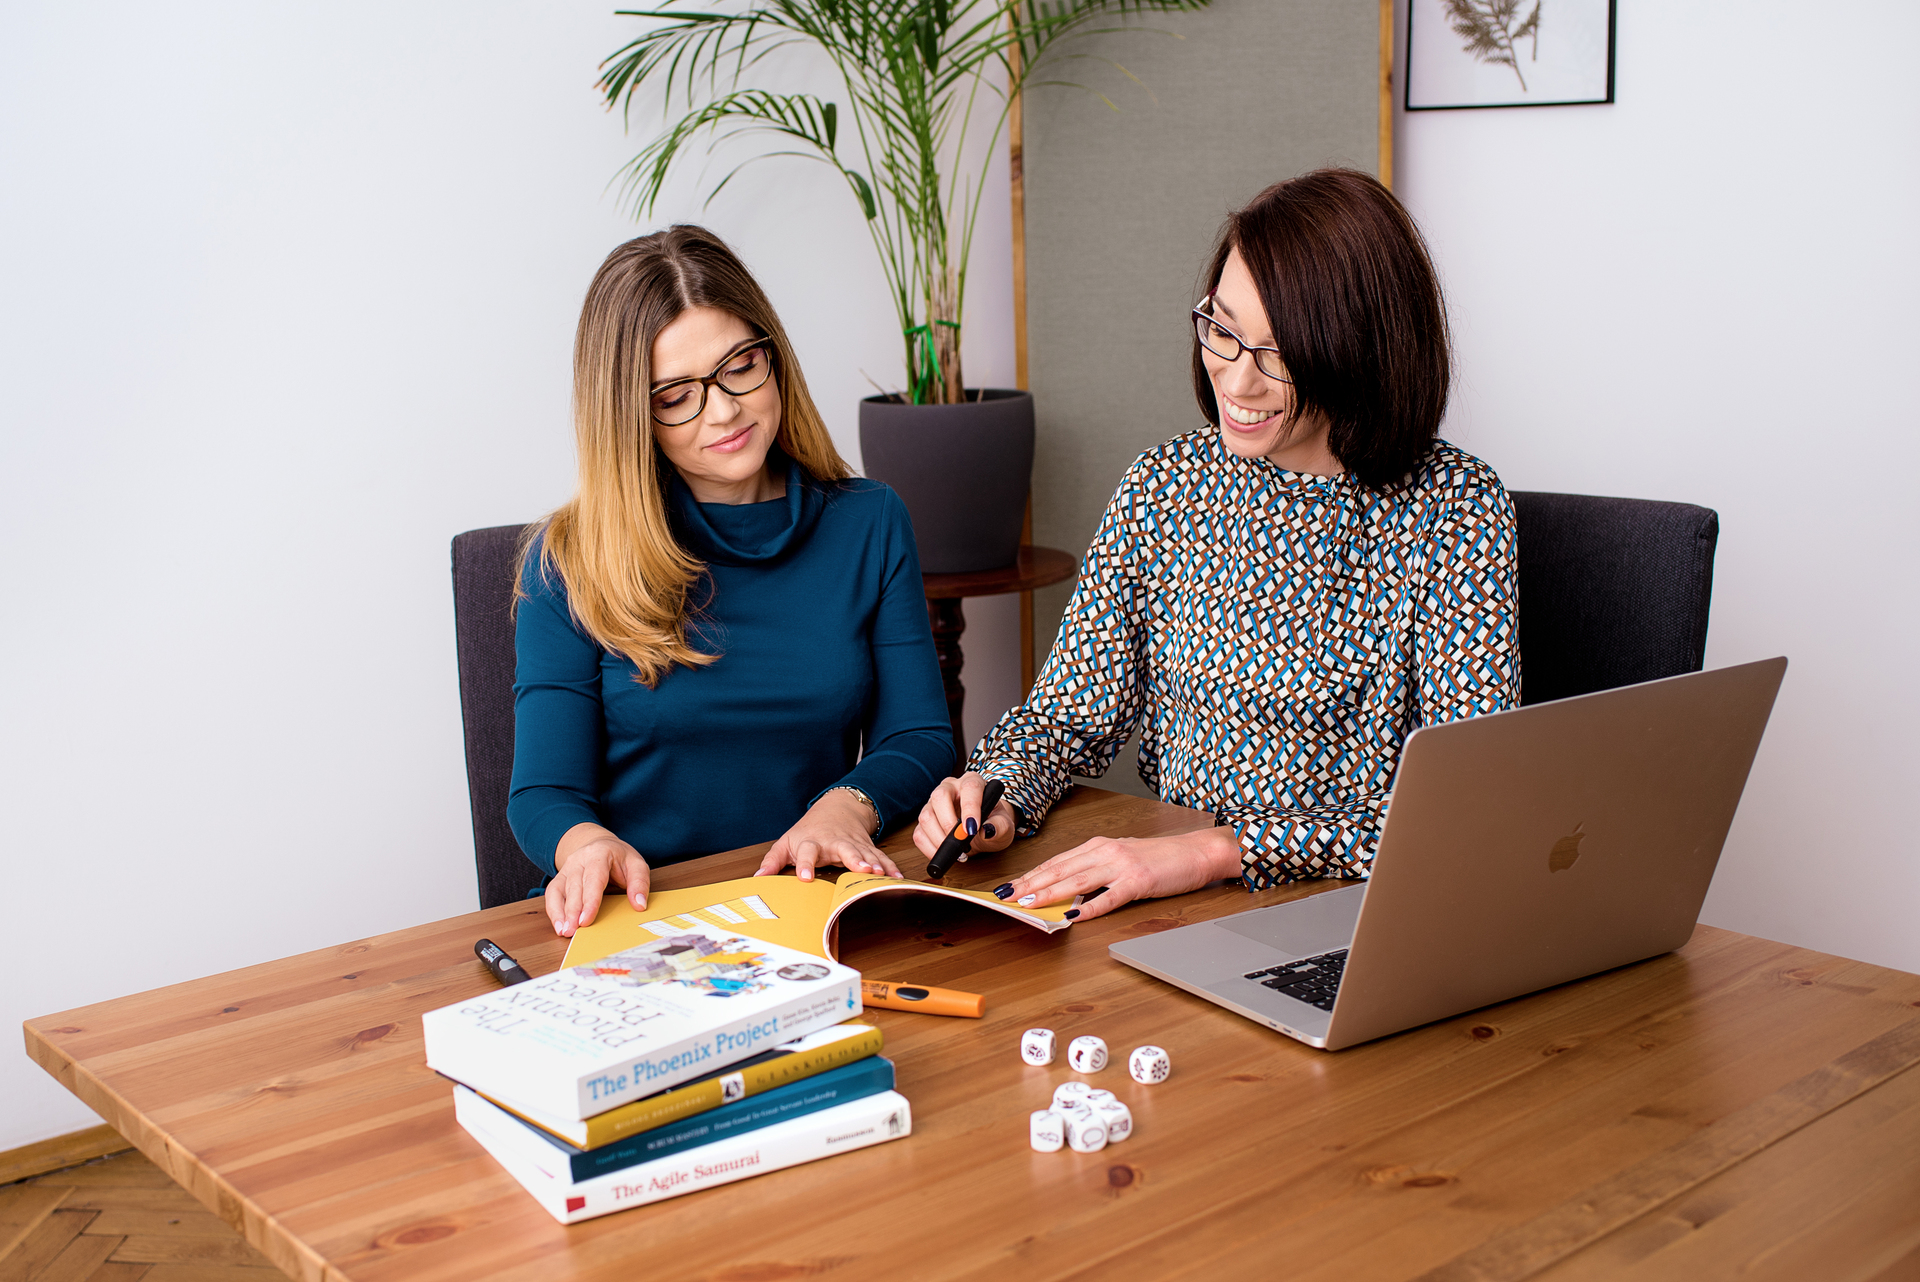
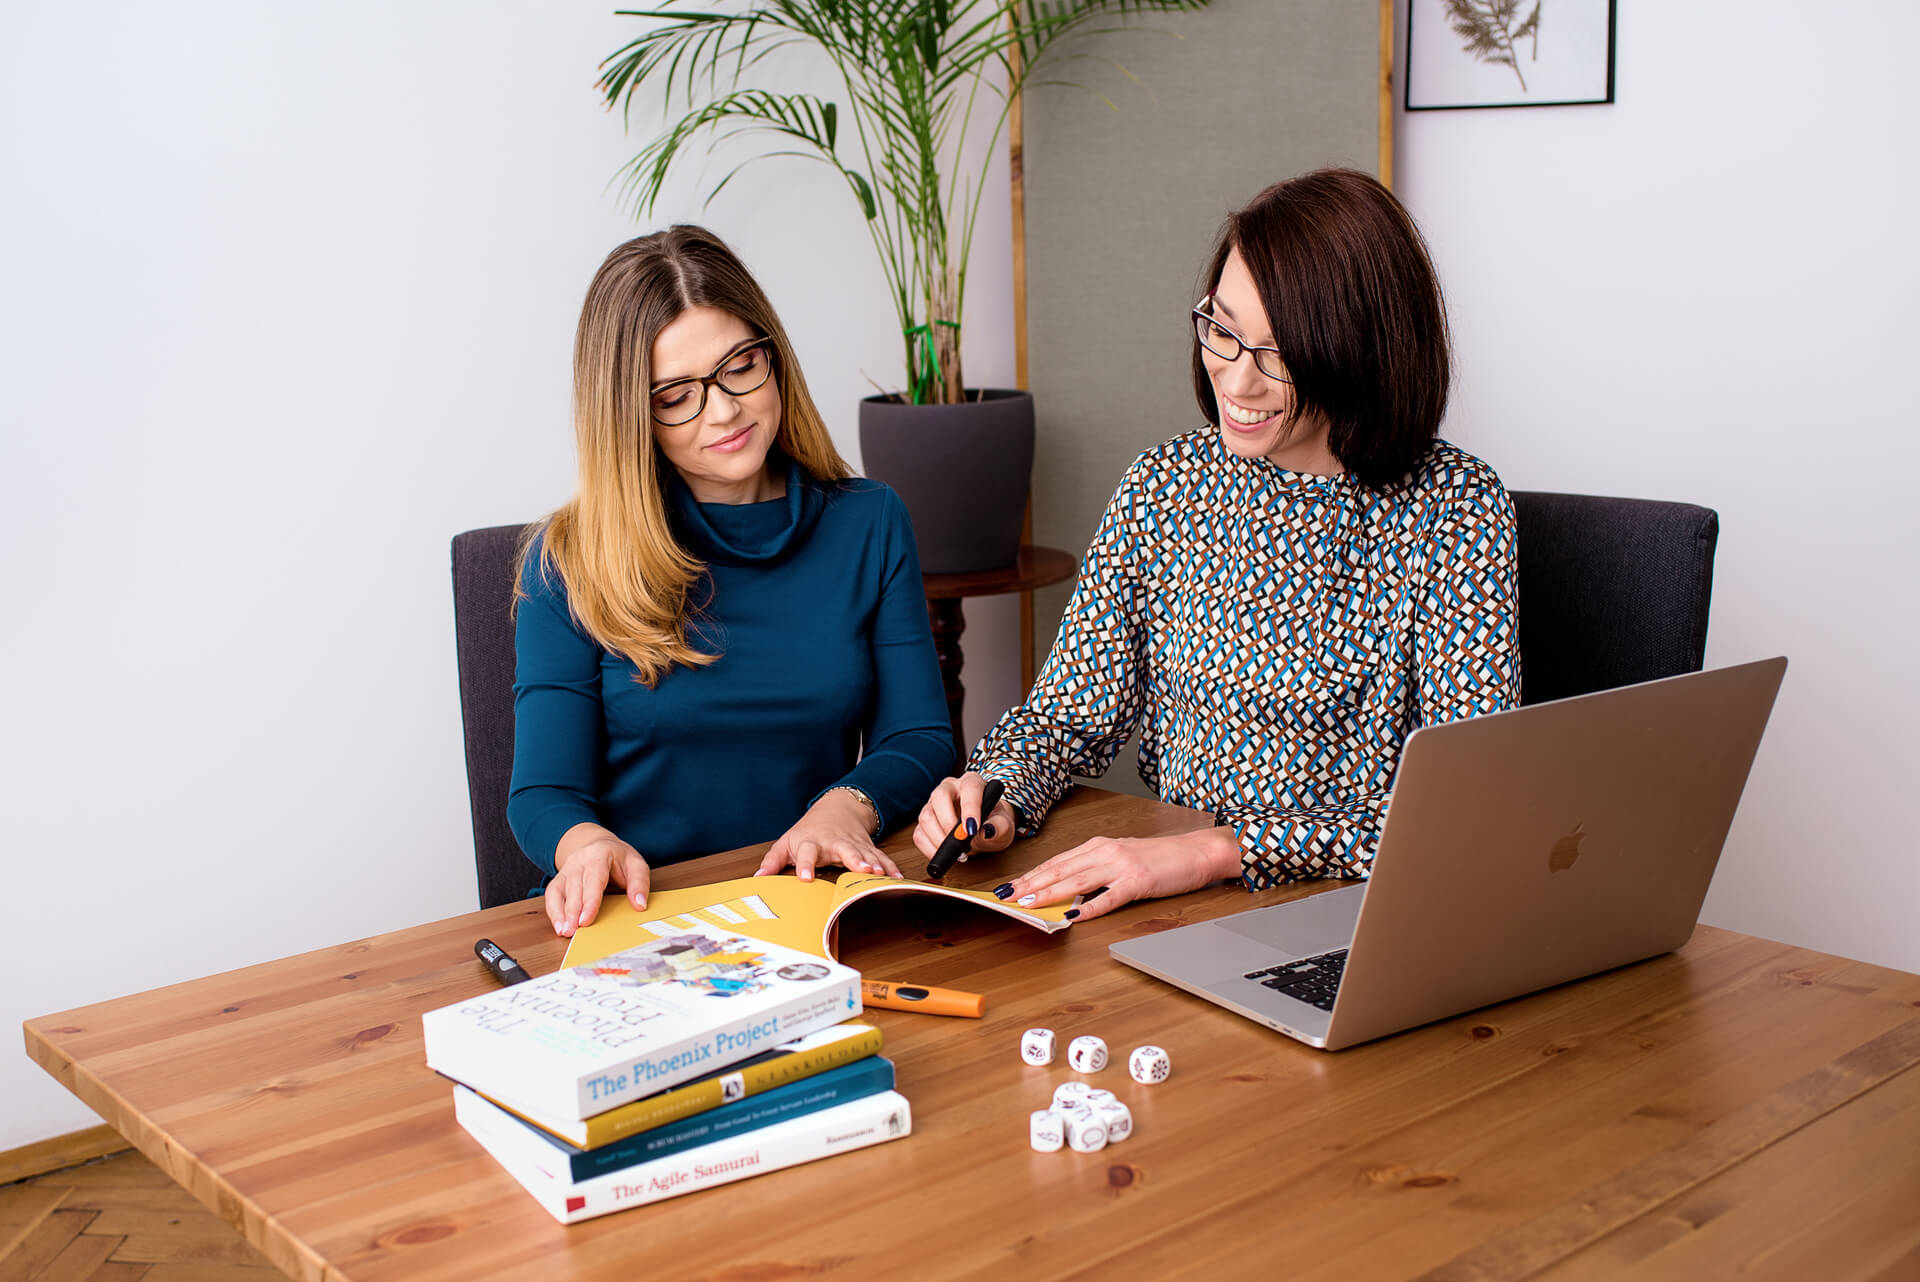
copmressing photos and fixing small bugs

Changed region(s): [[0.5, 0.3432, 0.7812, 0.6864], [0.625, 0.2496, 0.6562, 0.2808]]

diff --git a/pages/info.vue b/pages/info.vue
@@ -11,7 +11,7 @@
         <HeaderAndText
             class="text-center"
             title="Łączy nas nie tylko wspólna pasja, ale też wspólne doświadczenie"
-            subtitle="Poznałyśmy się 2018 roku w William Hill gdzie prowadziłyśmy wspólnie transformację Agilową w ponad 50 zespołach pracujących w różnych lokalizacjach w Krakowie, Leeds, Londynie i na Gibraltarze."
+            subtitle="Poznałyśmy się w 2018 roku w William Hill gdzie prowadziłyśmy wspólnie transformację Agilową w ponad 50 zespołach pracujących w różnych lokalizacjach: w Krakowie, Leeds, Londynie i na Gibraltarze."
         >
             <p class="text-gray-500">
                 Szybko okazało się, że mamy wiele wspólnego, a szczególnie pasję do dzielenia się wiedzą i wspierania Scrum Masterów, Product Ownerów i managerów w ich codziennej pracy.
@@ -58,7 +58,7 @@
                 <div class="col-span-12 sm:col-span-5">
                     <!-- <h2 class="text-xl font-bold text-gray-700 pb-2">Więcej o</h2> -->
                     <h1 class="text-4xl font-extrabold text-blue-500 mb-8">Dorota Sternalska</h1>
-                    <p class="text-gray-500 mb-8">Swoją przygodę z IT rozpoczęłam 10 lat temu od testowania radiotelefonów dla służb publicznych. Byłam liderem zespołu testowego odpowiedzialnego za strategię testową i koordynowanie testów dla 10 zespołów pracujących nad jednym produktem.<br>
+                    <p class="text-gray-500 mb-8">Swoją przygodę z IT rozpoczęłam ponad 10 lat temu od testowania radiotelefonów dla służb publicznych. Byłam liderem zespołu testowego odpowiedzialnego za strategię testową i koordynowanie testów dla 10 zespołów pracujących nad jednym produktem.<br>
                     Od tamtej pory rozwijam swoje liderskie kompetencje promując zwinne podejście w organizacjach, pracując z zespołami i managerami nad dostarczaniem wartościowych produktów w bardziej efektywny sposób.
 </p>
                 </div>

diff --git a/pages/index.vue b/pages/index.vue
@@ -7,7 +7,7 @@
             :image2="require('~/static/negative-space-macbook.jpg')"
             heading="Kilka słów o nas"
         >
-            <p class="text-gray-500 mb-8">Poznałyśmy się 2018 roku w William Hill gdzie prowadziłyśmy wspólnie transformację Agilową w ponad 50 zespołach pracujących w różnych lokalizacjach w Krakowie, Leeds, Londynie i na Gibraltarze. Szybko okazało się, że mamy wiele wspólnego, a szczególnie pasję do dzielenia się wiedzą i wspierania Scrum Masterów, Product Ownerów i managerów w ich codziennej pracy.</p>
+            <p class="text-gray-500 mb-8">Poznałyśmy się w 2018 roku w William Hill gdzie prowadziłyśmy wspólnie transformację Agilową w ponad 50 zespołach pracujących w różnych lokalizacjach: w Krakowie, Leeds, Londynie i na Gibraltarze. Szybko okazało się, że mamy wiele wspólnego, a szczególnie pasję do dzielenia się wiedzą i wspierania Scrum Masterów, Product Ownerów i managerów w ich codziennej pracy.</p>
             <Btn href="/info" />
         </TextAndImage>
 
